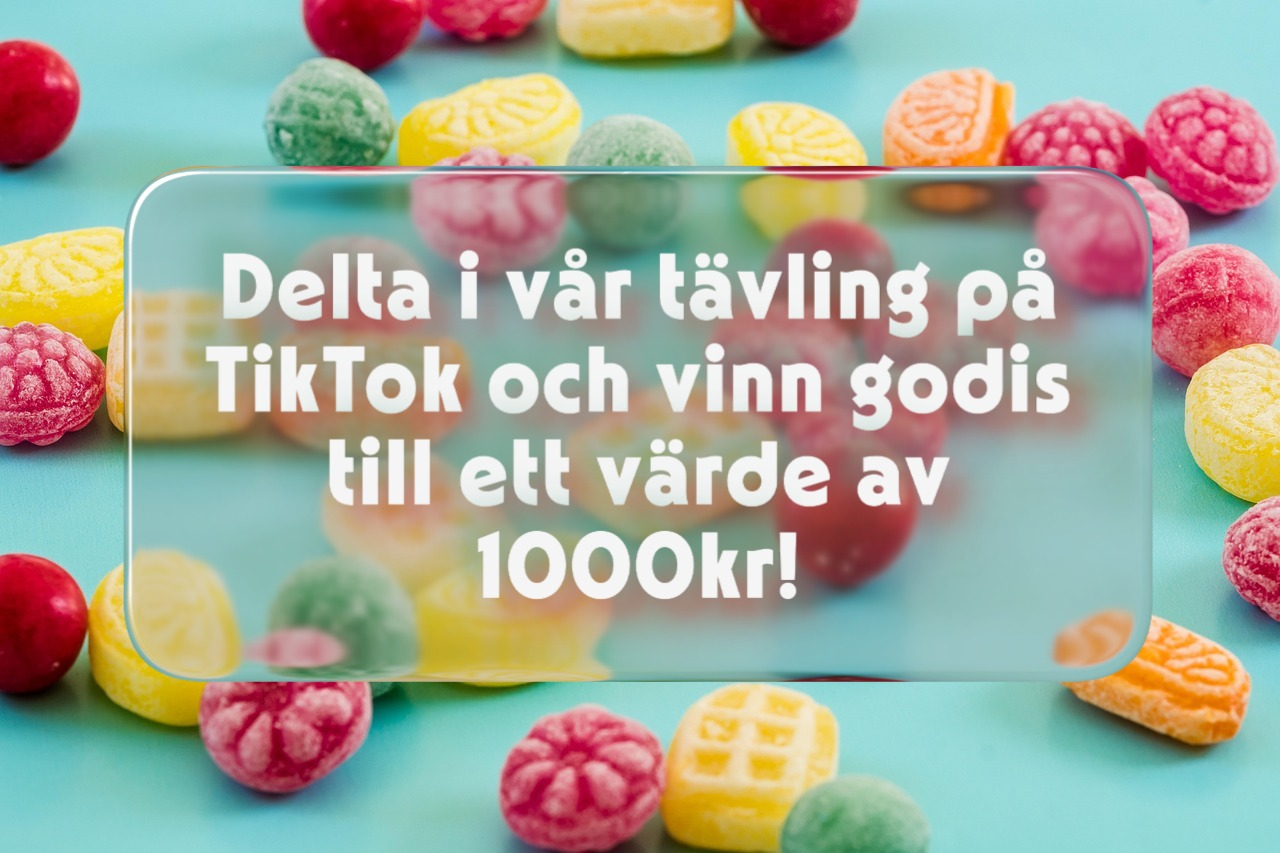
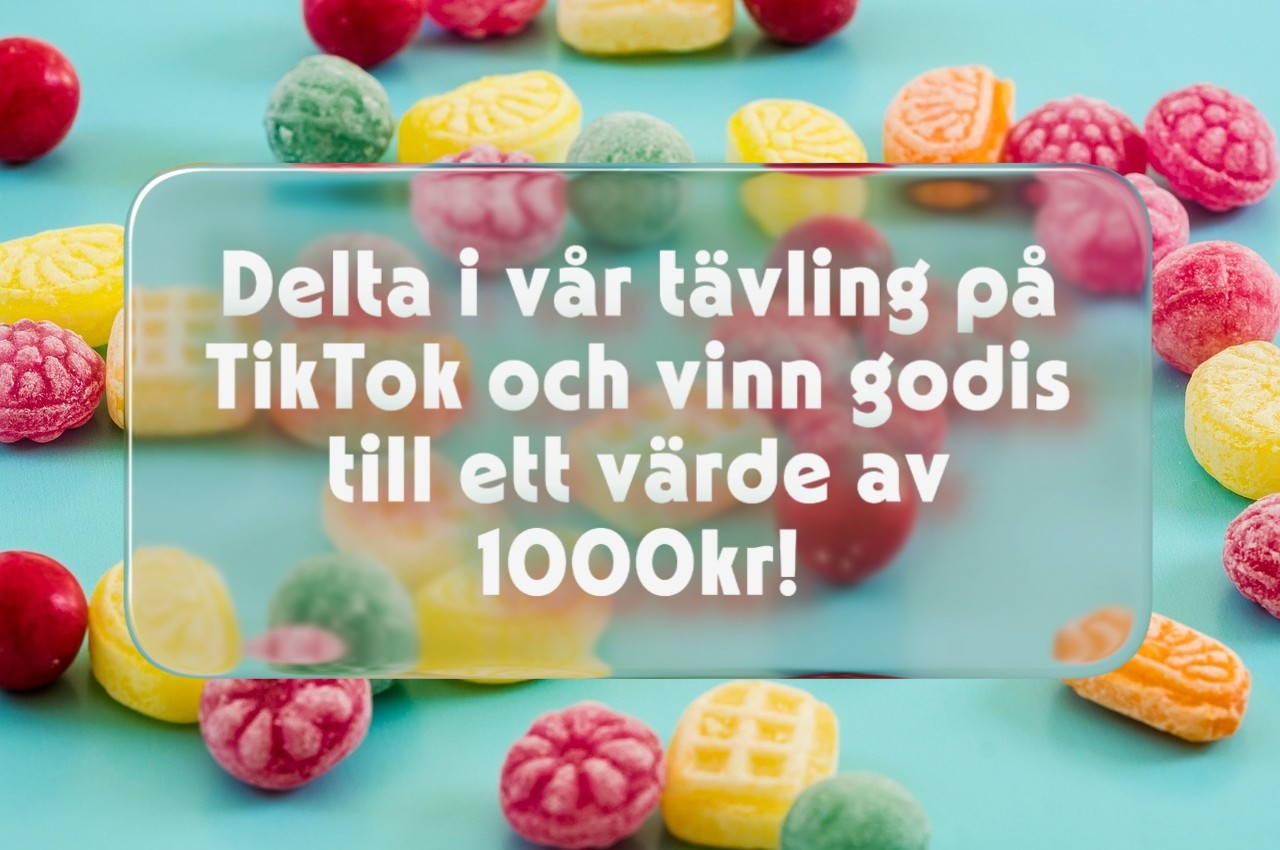
changed images to object fit contain instead to make them more scalable between screen sizes

diff --git a/src/assets/scss/style.scss b/src/assets/scss/style.scss
@@ -588,16 +588,9 @@ shopping-cart-title {
 
   @media (min-width: 768px) {
 
-    .navbar {
-      flex-direction: row; 
-      justify-content: space-between;
-      gap: 2rem; 
-      padding: 0 2rem; 
-    }
-
-    .carousel-item img {
-      height: 600px;
-    }
+  .carousel-item img {
+    height: 600px;
+  }
 
   .card {
     flex: 0 0 calc((100% - 3rem) / 4);

diff --git a/index.html b/index.html
@@ -32,13 +32,13 @@
     <div id="candy-carousel" class="carousel slide" data-ride="carousel">
       <div class="carousel-inner">
         <div class="carousel-item active">
-          <img class="d-block w-100 img-fluid object-fit-cover" src="src/assets/images/godisreklam1.JPG" alt="advert for candy boxes">
+          <img class="d-block w-100 img-fluid object-fit-contain" src="src/assets/images/godisreklam1.JPG" alt="advert for candy boxes">
         </div>
         <div class="carousel-item">
-          <img class="d-block w-100 object-fit-cover" src="src/assets/images/godisreklam2.jpg" alt="advert for candy">
+          <img class="d-block w-100 object-fit-contain" src="src/assets/images/godisreklam2.jpg" alt="advert for candy">
         </div>
         <div class="carousel-item">
-          <img class="d-block w-100 object-fit-cover" src="src/assets/images/godisreklam3.JPG" alt="advert for candy">
+          <img class="d-block w-100 object-fit-contain" src="src/assets/images/godisreklam3.5.JPG" alt="advert for candy">
         </div>
       </div>
     </div>